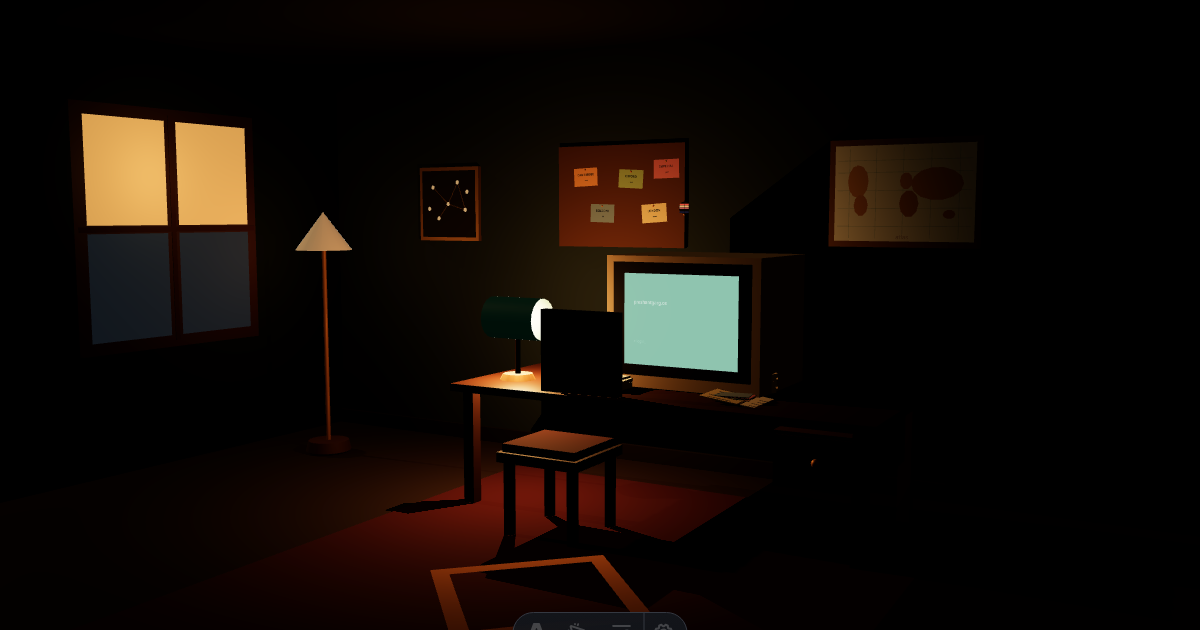
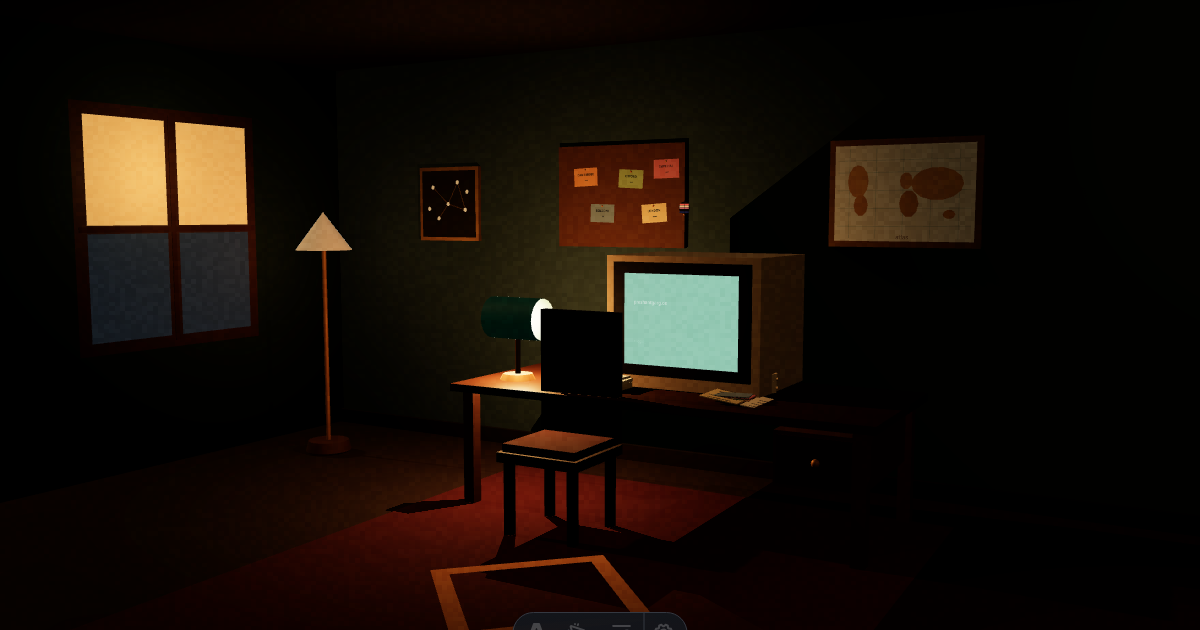
feat: film grain overlay, ambient audio, brighter scene
Atmosphere:
- GrainOverlay component: 220×140 canvas noise at ~15 fps stretched
  over viewport with mix-blend-mode: soft-light + opacity 0.09.
  Same technique Henry Heffernan uses (screen.glsl noise at 12%).
  Hidden during Win95 desktop phase.
- StudyAudio component: brown noise (1/f² spectrum) → 380 Hz low-pass
  + faint 2800 Hz bandpass (CRT hiss). Master gain ramps 0→0.055 over
  5 s from first pointerdown (browser AudioContext policy). Mutes when
  boot/desktop is active.

Lighting (right side was nearly black — directional faces away from it):
- Ambient lifted 0.18→0.45; hemisphere sky '#a08060'→'#b09070', 0.28→0.50
- Right-side fills: intensity 0.75→2.0 and 0.30→1.20, distance extended
- Overhead ceiling bounce added (position [0.5,3.6,0.5] intensity 0.25)
- Wall color lifted '#263438'→'#344a50' (floor of reflectance for runtime)
- Fog pushed further back (9–20 → 12–24)

OG images regenerated with updated scene.

Changed region(s): [[0.7092, 0.2111, 0.8325, 0.3921], [0.5242, 0.3921, 0.6783, 0.6635], [0.37, 0.9952, 0.4008, 1.0]]

diff --git a/src/components/Study.tsx b/src/components/Study.tsx
@@ -26,9 +26,9 @@ import InnerDesktop from './InnerDesktop';
 const C = {
   floor:        '#2a1a10',   // dark stained oak floorboards
   floorTrim:    '#1a0e07',
-  wall:         '#263438',   // slightly lifted slate-teal (was #1e2a2d)
-  wallShadow:   '#1c2a28',
-  ceiling:      '#201c1c',
+  wall:         '#344a50',   // lifted further — needed for runtime lighting
+  wallShadow:   '#253a38',
+  ceiling:      '#2a2424',
   windowGlow:   '#f4a958',   // late sun (warmer, less yellow)
   windowSky:    '#3a4856',   // dusk
   desk:         '#4f2e16',   // honey walnut desk
@@ -788,14 +788,19 @@ function Scene({ phase, onMonitorClick, onArrived }: {
 }) {
   return (
     <Suspense fallback={null}>
-      {/* Lighting: banker's lamp is still the hero but the room is no
-          longer Hopper-dark. Raised ambient + hemisphere so the walls
-          and corners read, while the warm lamp pool still dominates.
-          Think: late afternoon with the lamp just switched on. */}
-      <ambientLight intensity={0.18} color="#3d3628" />
+      {/* Lighting: warm late-afternoon study. The banker's lamp is the
+          hero point, ambient + hemisphere give the room its base tone,
+          and three targeted fills ensure no wall falls into pure black.
+          The right wall faces away from the directional so it needs its
+          own dedicated fills — that's the pair at x≈3.5. */}
+      {/* Ambient is intentionally high because runtime lighting on dark
+          materials can't match baked lighting. This is the "floor" —
+          keeps walls from going black. Lamp pool still dominates because
+          it has intensity 8.5 in a 3.2-unit radius. */}
+      <ambientLight intensity={0.45} color="#3d3428" />
       <directionalLight
         position={[-6, 3.5, 0.5]}
-        intensity={0.55}
+        intensity={0.65}
         color="#d8a870"
         castShadow
         shadow-mapSize-width={2048}
@@ -806,15 +811,18 @@ function Scene({ phase, onMonitorClick, onArrived }: {
         shadow-camera-top={8}
         shadow-camera-bottom={-8}
       />
-      <hemisphereLight args={['#7a6040', '#180e08', 0.28]} />
-      {/* fill from top-right so the guitar/music corner isn't black */}
-      <pointLight position={[3.8, 2.2, 1.2]} intensity={0.75} distance={4.5} decay={2} color="#c8964a" />
-      {/* soft window bounce off the left wall */}
-      <pointLight position={[-3.5, 2.2, -0.8]} intensity={0.45} distance={4.0} decay={2} color="#e8b878" />
-      {/* subtle fill from the right wall / music corner */}
-      <pointLight position={[3.5, 2.5, -0.5]} intensity={0.30} distance={5.0} decay={2} color="#b88040" />
-      {/* fog pushed back so mid-room is visible */}
-      <fog attach="fog" args={['#120c08', 9, 20]} />
+      {/* hemisphere gives warm sky tint from above */}
+      <hemisphereLight args={['#b09070', '#201008', 0.50]} />
+      {/* RIGHT SIDE — the camera looks from x≈2.8 so x>3 is in frame.
+          These two fills lift the guitar, music shelf, right wall. */}
+      <pointLight position={[3.8, 2.5, 1.2]} intensity={2.0} distance={7.0} decay={2} color="#c8964a" />
+      <pointLight position={[3.5, 2.5, -0.8]} intensity={1.20} distance={6.0} decay={2} color="#b88040" />
+      {/* window bounce — left wall + floor lamp corner */}
+      <pointLight position={[-3.5, 2.2, -0.8]} intensity={0.65} distance={5.5} decay={2} color="#e8b878" />
+      {/* overhead fill — ceiling bounce keeps the back wall readable */}
+      <pointLight position={[0.5, 3.6, 0.5]}  intensity={0.25} distance={10.0} decay={2} color="#b09060" />
+      {/* fog pushed to background only — depth not haze */}
+      <fog attach="fog" args={['#140c08', 12, 24]} />
 
       <Room />
       <Window />
@@ -900,6 +908,128 @@ function BootOverlay({ onDone }: { onDone: () => void }) {
   );
 }
 
+/* ---------- film grain overlay --------------------------------------- */
+// A low-res (220×140) noise canvas rendered at ~15 fps and stretched to
+// fill the viewport via CSS. mix-blend-mode: soft-light adds photographic
+// grain without brightening or darkening the scene — same technique Henry
+// Heffernan uses (screen.glsl noise at 12% soft-light opacity).
+function GrainOverlay() {
+  const ref = useRef<HTMLCanvasElement>(null);
+  useEffect(() => {
+    const canvas = ref.current;
+    if (!canvas) return;
+    const ctx = canvas.getContext('2d');
+    if (!ctx) return;
+    let id: ReturnType<typeof setInterval>;
+    const draw = () => {
+      const { width: w, height: h } = canvas;
+      const img = ctx.createImageData(w, h);
+      const d = img.data;
+      for (let i = 0; i < d.length; i += 4) {
+        const v = (Math.random() * 255) | 0;
+        d[i] = d[i + 1] = d[i + 2] = v;
+        d[i + 3] = 255;
+      }
+      ctx.putImageData(img, 0, 0);
+    };
+    draw();
+    id = setInterval(draw, 66); // ~15 fps
+    return () => clearInterval(id);
+  }, []);
+  return (
+    <canvas
+      ref={ref}
+      width={220}
+      height={140}
+      style={{
+        position: 'fixed', inset: 0,
+        width: '100%', height: '100%',
+        pointerEvents: 'none', zIndex: 6,
+        mixBlendMode: 'soft-light',
+        opacity: 0.09,
+        imageRendering: 'pixelated',
+      }}
+    />
+  );
+}
+
+/* ---------- programmatic ambient audio ------------------------------- */
+// Brown noise through a 380 Hz low-pass filter → believable room hum.
+// Volume ramps from 0 → 0.055 over 5 s so it's never jarring.
+// Starts only after a user interaction (browser AudioContext policy).
+function StudyAudio({ active }: { active: boolean }) {
+  const ctxRef  = useRef<AudioContext | null>(null);
+  const gainRef = useRef<GainNode | null>(null);
+  const startedRef = useRef(false);
+
+  // start on first pointerdown
+  useEffect(() => {
+    const start = () => {
+      if (startedRef.current) return;
+      startedRef.current = true;
+
+      const ac = new AudioContext();
+      ctxRef.current = ac;
+
+      // brown noise: integrate white noise for 1/f² power spectrum
+      const bufSize = ac.sampleRate * 2;
+      const buf = ac.createBuffer(1, bufSize, ac.sampleRate);
+      const data = buf.getChannelData(0);
+      let last = 0;
+      for (let i = 0; i < bufSize; i++) {
+        const w = Math.random() * 2 - 1;
+        data[i] = (last + 0.02 * w) / 1.02;
+        last = data[i];
+        data[i] *= 3.5;
+      }
+      const src = ac.createBufferSource();
+      src.buffer = buf;
+      src.loop = true;
+
+      // low-pass: cuts highs, leaves the low room rumble
+      const lpf = ac.createBiquadFilter();
+      lpf.type = 'lowpass';
+      lpf.frequency.value = 380;
+      lpf.Q.value = 0.8;
+
+      // a second, higher filter adds a faint electronics hiss (CRT buzz)
+      const hpf = ac.createBiquadFilter();
+      hpf.type = 'bandpass';
+      hpf.frequency.value = 2800;
+      hpf.Q.value = 8.0;
+      const hissGain = ac.createGain();
+      hissGain.gain.value = 0.008;
+
+      const master = ac.createGain();
+      gainRef.current = master;
+      master.gain.setValueAtTime(0, ac.currentTime);
+      master.gain.linearRampToValueAtTime(0.055, ac.currentTime + 5);
+
+      src.connect(lpf);
+      lpf.connect(master);
+      src.connect(hpf);
+      hpf.connect(hissGain);
+      hissGain.connect(master);
+      master.connect(ac.destination);
+      src.start();
+    };
+    window.addEventListener('pointerdown', start, { once: true });
+    return () => window.removeEventListener('pointerdown', start);
+  }, []);
+
+  // mute when phase is 'booting' or 'desktop' (boot overlay / Win95 takes over)
+  useEffect(() => {
+    const g = gainRef.current;
+    const ac = ctxRef.current;
+    if (!g || !ac) return;
+    const target = active ? 0.055 : 0.0;
+    g.gain.cancelScheduledValues(ac.currentTime);
+    g.gain.linearRampToValueAtTime(target, ac.currentTime + 1.2);
+  }, [active]);
+
+  return null;
+}
+
 /* ---------- tap hint (mobile-only) ----------------------------------- */
 function TapHint() {
   const [visible, setVisible] = useState(true);
@@ -970,6 +1100,9 @@ export default function Study() {
     try { sessionStorage.removeItem(SS_PHASE); } catch { /* ignore */ }
     setPhase('idle');
   };
+  // ambient audio is audible only during idle/dollying/on-monitor
+  const audioActive = phase === 'idle' || phase === 'dollying' || phase === 'on-monitor';
+
   return (
     <div style={{ position: 'fixed', inset: 0, background: '#1A130A' }}>
       <Canvas shadows dpr={[1, 1.75]} gl={{ antialias: true }}>
@@ -977,6 +1110,10 @@ export default function Study() {
         <CameraRig phase={phase} onArrived={handleArrived} />
         <Scene phase={phase} onMonitorClick={handleClick} onArrived={handleArrived} />
       </Canvas>
+      {/* film grain overlay — photographic texture over the 3D canvas */}
+      {phase !== 'desktop' && <GrainOverlay />}
+      {/* ambient room audio — brown noise + CRT hiss, starts on first click */}
+      <StudyAudio active={audioActive} />
       {phase === 'idle' && isTouch && <TapHint />}
       {phase === 'booting' && <BootOverlay onDone={handleBootDone} />}
       {phase === 'desktop' && <InnerDesktop onClose={handleDesktopClose} />}
